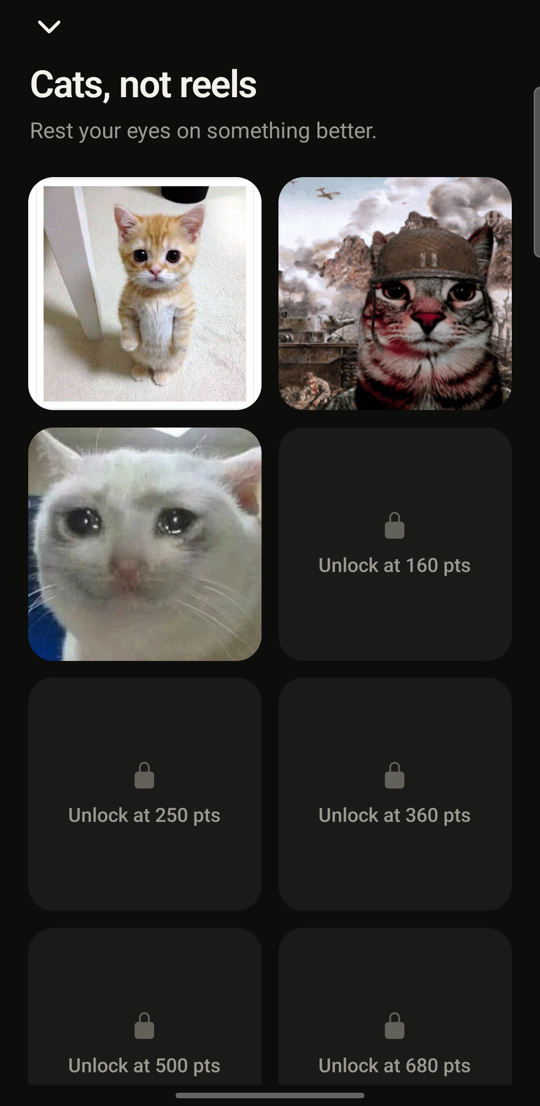
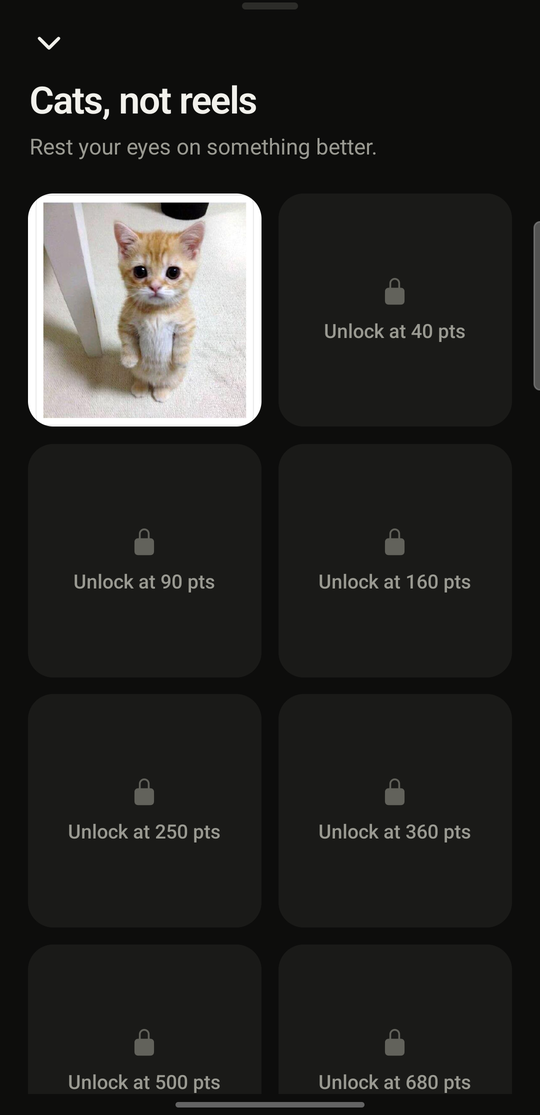
Bank points only for completed days, and refresh the Play paperwork
Today's live day used to count toward lifetime points at full value, so a
fresh install had 50 points before anything happened, cat two unlocked on
first launch, and the "New cat unlocked" card fired at once. Dismissing it
then pinned a 50-point high-water mark that survived a whole afternoon of
scrolling. Points now come from days that are over; today's value is shown
alongside as pending and banks at midnight. Unlocks are one-way by
construction, and the old high-water mark is still honoured for anyone who
unlocked under the previous rule.

Play readiness: the accessibility declaration and store copy now describe
the payment pause (window-switch events from every app, screen content
read only in Instagram and YouTube), the other permissions are justified
in one place, the privacy policy gains notifications and alarms and a new
date, screenshots and store graphics are recaptured as Wilt with the new
cat (the nudge shot, the limit-reached, widget and pill images in
docs/screenshots still need a redo), the Unhook-branded nudge store shot
is dropped, and the EAS project is relinked under the wilt slug. The
onboarding intro shows the fresh kitten rather than a wilting one.

Claude-Session: https://claude.ai/code/session_018my5M8rWu3heGd1rHhfy5D

diff --git a/components/progress.test.ts b/components/progress.test.ts
@@ -1,4 +1,4 @@
-import { pointsForDay, MAX_POINTS_PER_DAY, nextRungBelow, LADDER, isCleanDay, lifetimePoints, streaks, computeProgress } from "./progress";
+import { pointsForDay, MAX_POINTS_PER_DAY, nextRungBelow, LADDER, isCleanDay, lifetimePoints, bankedPoints, pendingPoints, streaks, computeProgress } from "./progress";
 import type { WiltDay } from "../modules/wiltnative";
 
 const day = (date: string, seconds: number, limitMinutes?: number): WiltDay => ({
@@ -149,10 +149,12 @@ describe("computeProgress", () => {
   });
 
   it("reports newly crossed cat thresholds as pending unlocks (the free cat unlocks silently)", () => {
-    // 7 days spending 1 of 15 minutes = 47/day = 329 pts -> crosses 0,50,150.
-    // The free cat (threshold 0) is unlocked from install, so it never fires.
+    // 7 days spending 1 of 15 minutes = 47/day. Today (the 7th) is not banked
+    // yet, so 6 days = 282 pts -> crosses 0,50,150. The free cat (threshold 0)
+    // is unlocked from install, so it never fires.
     const p = computeProgress(clean7(15, 1), 15, "2026-07-07", thresholds, noneSeen);
-    expect(p.points).toBe(329);
+    expect(p.points).toBe(282);
+    expect(p.pendingPoints).toBe(47);
     expect(p.unlockedCount).toBe(3);
     expect(p.pendingCatUnlocks).toEqual([50, 150]);
   });
@@ -163,14 +165,36 @@ describe("computeProgress", () => {
     expect(p.pendingCatUnlocks).toEqual([150]);
   });
 
-  it("keeps cats unlocked when today's points fall back as the user scrolls", () => {
-    // Today's contribution shrinks in real time, so the running total can drop.
-    // A cat already earned and celebrated must not re-lock underneath the user.
+  it("does not bank today, so a fresh install has nothing to unlock and nothing to re-lock", () => {
+    // Today alone: no completed day, so 0 banked. Nothing scrolled yet means a
+    // full day is pending. Only the free cat is open and no card fires.
+    const fresh = computeProgress([day("2026-07-07", 0, 30)], 30, "2026-07-07", thresholds, noneSeen);
+    expect(fresh.points).toBe(0);
+    expect(fresh.pendingPoints).toBe(MAX_POINTS_PER_DAY);
+    expect(fresh.unlockedCount).toBe(1);
+    expect(fresh.pendingCatUnlocks).toEqual([]);
+    // Scrolling most of today drains the pending value but touches nothing banked.
+    const slipped = computeProgress([day("2026-07-07", mins(29), 30)], 30, "2026-07-07", thresholds, noneSeen);
+    expect(slipped.points).toBe(0);
+    expect(slipped.pendingPoints).toBe(2);
+    expect(slipped.unlockedCount).toBe(1);
+  });
+
+  it("still honours a celebrated high-water mark from the old rule", () => {
     const earned = { lastCelebratedStreakMilestone: 0, lastPointsCelebrated: 150 };
-    const slipped = [day("2026-07-07", mins(29), 30)]; // 1 of 30 min left -> 2 pts
-    const p = computeProgress(slipped, 30, "2026-07-07", thresholds, earned);
-    expect(p.points).toBe(2);
-    expect(p.unlockedCount).toBe(3); // 0, 50 and 150 stay unlocked
+    const p = computeProgress([day("2026-07-07", mins(29), 30)], 30, "2026-07-07", thresholds, earned);
+    expect(p.unlockedCount).toBe(3);
     expect(p.pendingCatUnlocks).toEqual([]);
+  });
+});
+
+describe("bankedPoints / pendingPoints", () => {
+  it("banks only days before today", () => {
+    const h = [day("2026-07-05", 0, 30), day("2026-07-06", mins(15), 30), day("2026-07-07", 0, 30)];
+    expect(bankedPoints(h, "2026-07-07", 30)).toBe(50 + 25);
+    expect(pendingPoints(h, "2026-07-07", 30)).toBe(50);
+  });
+  it("pends the full day when today has no record yet", () => {
+    expect(pendingPoints([day("2026-07-06", 0, 30)], "2026-07-07", 30)).toBe(MAX_POINTS_PER_DAY);
   });
 });

diff --git a/components/progress.ts b/components/progress.ts
@@ -89,10 +89,31 @@ export type ProgressSeen = {
   lastPointsCelebrated: number;
 };
 
+/**
+ * Points from days that are over. Today is never banked: its value keeps
+ * shrinking as you scroll, so counting it would hand out a full day's points
+ * the moment the app is installed and then take them back all afternoon.
+ */
+export function bankedPoints(history: WiltDay[], today: string, currentLimit: number): number {
+  return lifetimePoints(history.filter((d) => d.date < today), currentLimit);
+}
+
+/**
+ * What today is on course to add: its points as they stand right now, or the
+ * full daily maximum when nothing has been recorded yet. Banked at midnight.
+ */
+export function pendingPoints(history: WiltDay[], today: string, currentLimit: number): number {
+  const live = history.find((d) => d.date === today);
+  return live ? pointsForDay(live, currentLimit) : MAX_POINTS_PER_DAY;
+}
+
 export type Progress = {
   streak: number;
   best: number;
+  /** Lifetime points from completed days. Only these unlock cats. */
   points: number;
+  /** Today's points so far, banked at midnight. */
+  pendingPoints: number;
   limit: number;
   nextRung: number | null;
   unlockedCount: number;
@@ -112,13 +133,13 @@ export function computeProgress(
   seen: ProgressSeen
 ): Progress {
   const { current: streak, best } = streaks(history, today, currentLimit);
-  const points = lifetimePoints(history, currentLimit);
+  const points = bankedPoints(history, today, currentLimit);
+  const pending = pendingPoints(history, today, currentLimit);
   const nextRung = nextRungBelow(currentLimit);
 
-  // Today's contribution shrinks in real time as you scroll, so the running
-  // total goes down as well as up. Unlocking has to be one-way: gate the
-  // gallery on the high-water mark, never on the live total, or a cat you
-  // already earned would re-lock mid-afternoon.
+  // Banked points only ever grow, so unlocking is one-way by construction. The
+  // celebrated high-water mark is still honoured for anyone who unlocked under
+  // the old rule, when today's live points counted.
   const unlockedAt = Math.max(points, seen.lastPointsCelebrated);
   const unlockedCount = catThresholds.filter((t) => t <= unlockedAt).length;
 
@@ -131,5 +152,15 @@ export function computeProgress(
     .filter((t) => t > seen.lastPointsCelebrated && t <= points)
     .sort((a, b) => a - b);
 
-  return { streak, best, points, limit: currentLimit, nextRung, unlockedCount, pendingLevelDown, pendingCatUnlocks };
+  return {
+    streak,
+    best,
+    points,
+    pendingPoints: pending,
+    limit: currentLimit,
+    nextRung,
+    unlockedCount,
+    pendingLevelDown,
+    pendingCatUnlocks,
+  };
 }

diff --git a/components/ProgressStrip.tsx b/components/ProgressStrip.tsx
@@ -2,16 +2,21 @@ import { Pressable, Text, View } from "react-native";
 import { Ionicons } from "@expo/vector-icons";
 import { C } from "./console";
 
-/** Slim positive-reinforcement strip: current streak + lifetime points. */
+/**
+ * Slim positive-reinforcement strip: current streak + banked points, with
+ * today's not-yet-banked points alongside so the number never seems to shrink.
+ */
 export function ProgressStrip({
   streak,
   best,
   points,
+  pendingPoints,
   onPress,
 }: {
   streak: number;
   best: number;
   points: number;
+  pendingPoints: number;
   onPress?: () => void;
 }) {
   return (
@@ -29,6 +34,7 @@ export function ProgressStrip({
       </View>
       <Text className="text-[14px] font-medium text-ash">
         <Text className="font-semibold text-bone">{points.toLocaleString()}</Text> pts
+        {pendingPoints > 0 ? <Text className="text-dim">  +{pendingPoints} today</Text> : null}
       </Text>
     </Pressable>
   );

diff --git a/components/Onboarding.tsx b/components/Onboarding.tsx
@@ -111,7 +111,7 @@ export function OnboardingFlow({
         <View style={{ width, height }} className="px-6 pb-3 pt-3">
           <Header index={0} onSkip={() => goTo(PAGES - 1)} />
           <View className="flex-1 items-center justify-center">
-            <KitCatClock usedMinutes={18} limitMinutes={30} />
+            <KitCatClock usedMinutes={6} limitMinutes={30} />
             <Text
               className="mt-2 text-[11px] font-semibold uppercase text-dim"
               style={{ letterSpacing: 0.5 }}

diff --git a/App.tsx b/App.tsx
@@ -281,6 +281,7 @@ export default function App() {
                 streak={progress.streak}
                 best={progress.best}
                 points={progress.points}
+                pendingPoints={progress.pendingPoints}
                 onPress={() => setScreen("history")}
               />
               <Dashboard

diff --git a/docs/play-listing.md b/docs/play-listing.md
@@ -33,12 +33,19 @@ carefully and specifically. Vagueness reads as evasion.
 > direct messages inside Instagram, so the app cannot perform its core function
 > without this permission.
 >
-> The service is scoped in its configuration to two packages only,
-> `com.instagram.android` and `com.google.android.youtube`. It uses the
-> information to increment a timer and, at the limit, to navigate away from the
-> feed. Screen content is evaluated in the moment and discarded. Nothing is
-> recorded, stored, logged, or transmitted, and the app makes no network requests
-> at all.
+> Screen content is read in two apps only, `com.instagram.android` and
+> `com.google.android.youtube`. There the service uses it to increment a timer
+> and, at the limit, to navigate away from the feed. Screen content is evaluated
+> in the moment and discarded. Nothing is recorded, stored, logged, or
+> transmitted, and the app makes no network requests at all.
+>
+> Outside those two apps the service subscribes only to window-switch events
+> (TYPE_WINDOW_STATE_CHANGED and TYPE_WINDOWS_CHANGED), which carry the package
+> name or window title of the app coming to the front. It uses that for one
+> purpose: some UPI and banking apps refuse to run while any third-party
+> accessibility service is enabled, so when such an app comes to the front the
+> service disables itself (AccessibilityService.disableSelf) and notifies the
+> user, who re-enables it afterwards. No content of any other app is read.
 
 **How users are told, before enabling it:** The onboarding flow has a dedicated
 screen explaining both permissions before either is requested. Its wording:
@@ -47,8 +54,10 @@ YouTube, nothing else, and your data stays on this device." The service also
 carries an `android:description` shown in Android's own accessibility settings.
 
 **Video demo:** Play usually asks for a link to a short screen recording showing
-the feature in use. Recorded at `docs/store/wilt-demo.mp4` (70s, 1080x2340).
-Upload it unlisted to YouTube and paste the link into the declaration.
+the feature in use. The existing recording, `docs/store/unhook-demo.mp4` (70s,
+1080x2340), predates the rename and shows the Unhook branding and the old cat;
+re-record it as Wilt before submitting, then upload it unlisted to YouTube and
+paste the link into the declaration.
 
 What it shows, in order: the dashboard with today's time and the budget left, then
 Instagram Reels with the floating timer counting while the feed is scrolled, then
@@ -62,6 +71,27 @@ permission screen and the Settings toggle. Note that force-stopping the app turn
 the service off, which is a quick way to get back to the onboarding state.
 
 ---
+
+## Other permissions a reviewer may ask about
+
+None of these has a Play Console declaration form today, but the answers should
+be ready.
+
+- **SYSTEM_ALERT_WINDOW.** Draws the floating timer and the block cover over
+  Instagram and YouTube. Requested in onboarding with an explanation.
+- **POST_NOTIFICATIONS.** One notification only: "Wilt paused for <payment app>",
+  posted when the service switches itself off for a UPI or banking app, so the
+  user knows to turn it back on. Requested after setup completes.
+- **SCHEDULE_EXACT_ALARM.** Used for a single alarm that re-enables the
+  accessibility service four minutes after a payment pause. Only functional when
+  the user has also granted secure-settings access over adb, which normal users
+  never do; without that grant the alarm is scheduled inexactly. Not requested
+  from the user in the app.
+- **WRITE_SECURE_SETTINGS.** Declared so a developer can grant it over adb, which
+  lets the app re-enable its own accessibility service after a payment pause.
+  The system never grants it to a normal install, and the app never asks for it.
+- **INTERNET.** Added by the Expo/React Native runtime. The app makes no
+  network requests; there is no analytics, crash reporting, or update channel.
 
 ## Data Safety form
 
@@ -149,8 +179,8 @@ at all, and everything it records stays in your phone's private storage.
 
 HOW IT WORKS
 Wilt uses Android's accessibility service to tell when a Reel or a Short is on
-screen. That is the only way an Android app can know this. The service is limited
-to Instagram and YouTube, it reads nothing else on your phone, and what it sees
+screen. That is the only way an Android app can know this. It reads screen
+content only inside Instagram and YouTube, nothing else on your phone, and what it sees
 is counted and discarded, never stored or sent anywhere. You turn it on yourself
 during setup and can turn it off at any time in Android Settings.
 ```
@@ -214,8 +244,11 @@ both** and bump the date in each.
 
 - [x] Privacy policy hosted at a public URL
 - [x] Store graphics generated (icon, feature graphic)
-- [x] Phone screenshots captured and converted to 9:16
-- [x] Demo video recorded for the accessibility declaration
+- [x] Phone screenshots captured and converted to 9:16 (recaptured as Wilt on
+      6 September 2026; the nudge shot is missing and `docs/screenshots/`
+      still has three Unhook-era images: limit reached, the widget, the pill)
+- [ ] Demo video re-recorded as Wilt (the existing one is Unhook-branded)
+- [x] EAS project relinked under the `wilt` slug (`@rogerantony/wilt`)
 - [ ] Complete **Android developer verification**, or publishing is blocked
 - [ ] Build a signed AAB: `eas build --platform android --profile production`
 - [ ] Upload the demo video to YouTube as unlisted, keep the link

diff --git a/docs/privacy-policy.md b/docs/privacy-policy.md
@@ -1,6 +1,6 @@
 # Privacy Policy for Wilt
 
-**Last updated: 26 July 2026**
+**Last updated: 6 September 2026**
 
 Wilt is a screen-time app for Android. It counts the time you spend on
 Instagram Reels and YouTube Shorts, shows that time back to you, and can block
@@ -75,6 +75,11 @@ the apps on your phone is collected or sent anywhere.
 - **Internet and network state.** These appear in the app's permission list
   because standard Android app frameworks declare them. Wilt itself makes no
   network requests.
+- **Notifications.** One notification only: that Wilt has paused itself for a
+  payment app, so you know to turn it back on. Nothing else is ever posted.
+- **Alarms and reminders.** Used for a single timer that turns the service back
+  on a few minutes after a payment pause, and only on a phone where you have
+  granted Wilt that ability with developer tools. Wilt never asks you for it.
 - **Vibrate.** Declared by the app framework.
 
 ## Children
